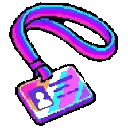
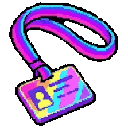
게이밍 사원증 고침

diff --git a/sw.js b/sw.js
@@ -1,5 +1,5 @@
 // 오프라인에서도 열리도록 캐시 (항상 최신 버전 우선)
-const CACHE = 'overtime-v14';
+const CACHE = 'overtime-v15';
 self.addEventListener('install', (e) => self.skipWaiting());
 self.addEventListener('activate', (e) => e.waitUntil(self.clients.claim()));
 self.addEventListener('fetch', (e) => {
